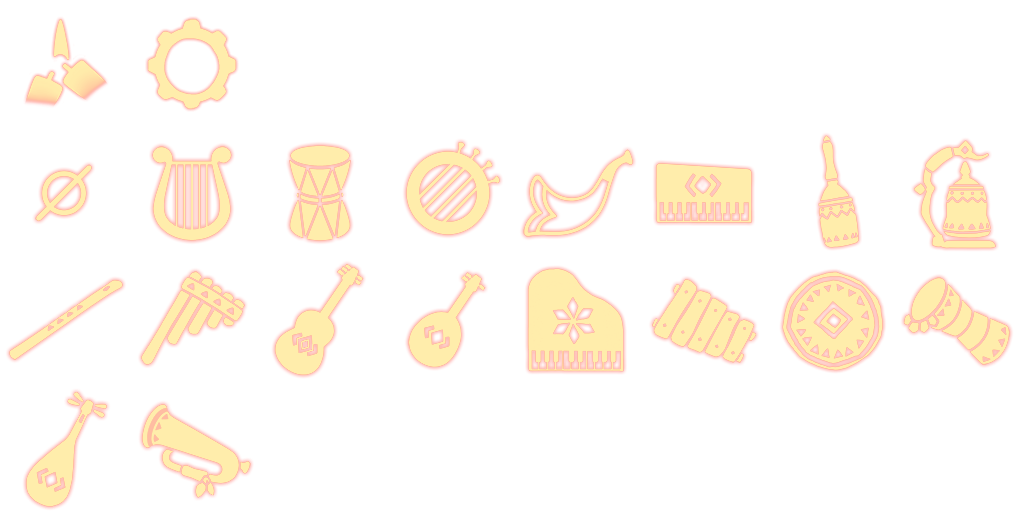
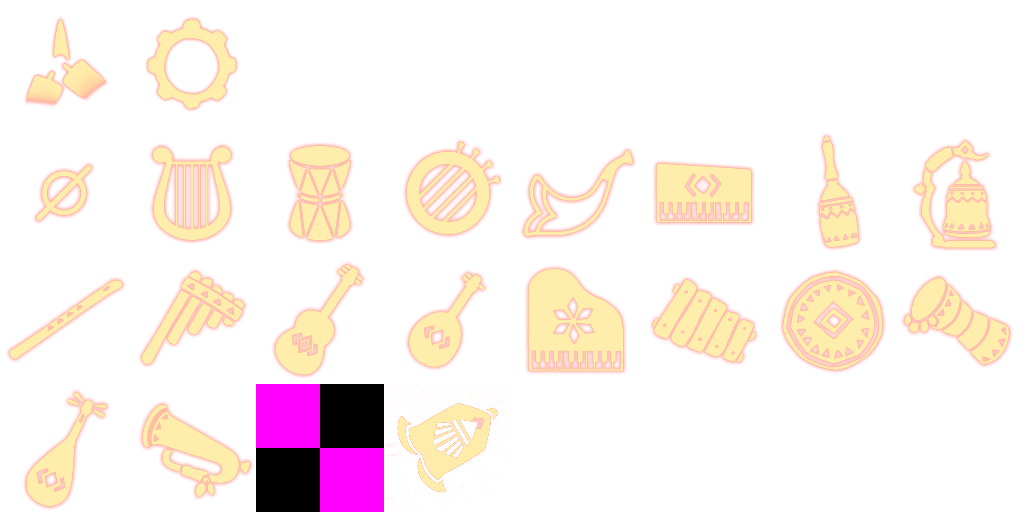
-

diff --git a/instr.html b/instr.html
@@ -117,6 +117,8 @@
 			</label><label><input type="radio" name="instr" value="15"><p class="grid tex" style="--bp:-700% -200%;"></p>
 			</label><label><input type="radio" name="instr" value="16"><p class="grid tex" style="--bp:-0%   -300%;"></p>
 			</label><label><input type="radio" name="instr" value="17"><p class="grid tex" style="--bp:-100% -300%;"></p>
+			</label><label><input type="radio" name="instr" value="18" disabled><p class="grid tex" style="--bp:-200% -300%;"></p>
+			</label><label><input type="radio" name="instr" value="19" disabled><p class="grid tex" style="--bp:-300% -300%;"></p>
 			</label>
 		</form>
 		<hr>
@@ -177,7 +179,9 @@
 			['audio/instr/handpan/',-1,stdli(3)],
 			['audio/instr/dundun/',-1,{a3:'0.mp3','a#3':'1.mp3',b3:'2.mp3',c4:'3.mp3',a4:'4.mp3','a#4':'5.mp3',b4:'6.mp3',c5:'7.mp3'}],
 			['audio/instr/pipa/',-1,stdli(3,5)],//210529
-			['audio/instr/bugle/',0,stdli(4,6)]//210529
+			['audio/instr/bugle/',0,stdli(4,6)],//210529
+				['audio/instr/ocarina/',0,stdli(4,6)],
+				['audio/instr/kalimba/',0,stdli(4,6)]
 		],
 		kbmode=(x=menu.instr.value)=>[0,0,1,0,0,0,2,2,0,0,0,0,0,0,3,1,0,0][Number(x)||0],
 		keymap=['QWERTASDFGZXCVB','QWERASDF','QWEASDZXC'].map(x=>Array.from(x,y=>`Key${y}`)),
